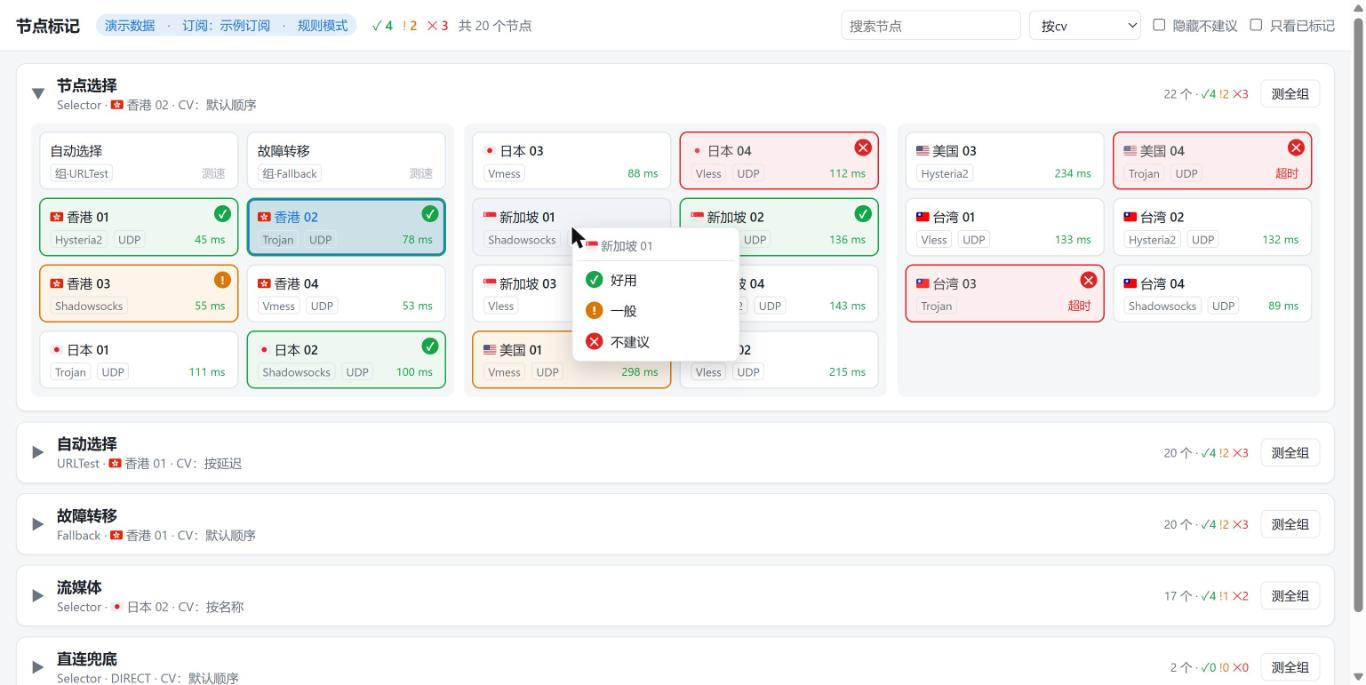
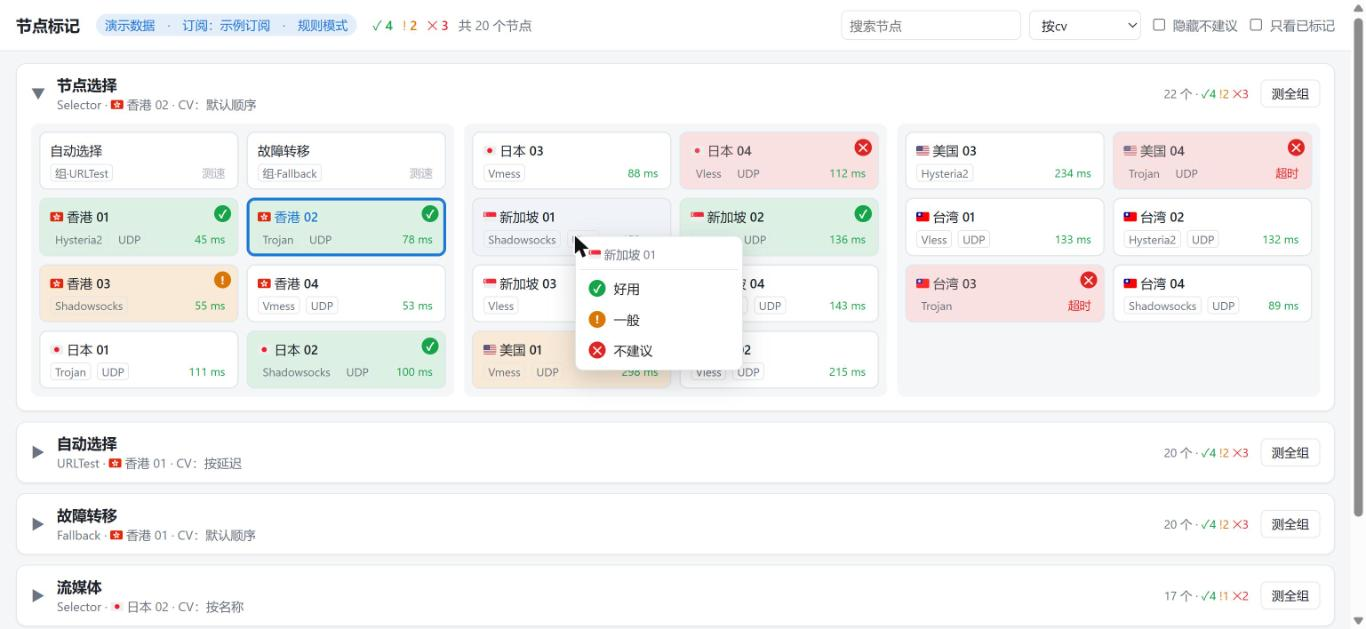
Show marks as tint + badge only; frame only the selected node
Selection and mark both drew on the card border, so a selected marked
card got two colored frames stacked together. Marks now use just the
background tint (made stronger) and the corner badge; the selected card
gets a 3px blue frame. Update READMEs and screenshot to match.

diff --git a/index.html b/index.html
@@ -16,9 +16,9 @@
     --bg: #f5f6f8; --panel: #ffffff; --card: #ffffff; --card-hover: #f0f3f8;
     --text: #1f2329; --muted: #6b7280; --line: #e3e6eb;
     --primary: #1976d2; --primary-bg: rgba(25, 118, 210, 0.12);
-    --good: #16a34a; --good-bg: rgba(22, 163, 74, 0.08);
-    --warn: #d97706; --warn-bg: rgba(217, 119, 6, 0.09);
-    --bad: #dc2626; --bad-bg: rgba(220, 38, 38, 0.08);
+    --good: #16a34a; --good-bg: rgba(22, 163, 74, 0.15);
+    --warn: #d97706; --warn-bg: rgba(217, 119, 6, 0.16);
+    --bad: #dc2626; --bad-bg: rgba(220, 38, 38, 0.14);
     --shadow: 0 1px 2px rgba(0, 0, 0, 0.06);
   }
   @media (prefers-color-scheme: dark) {
@@ -26,9 +26,9 @@
       --bg: #17181b; --panel: #1f2125; --card: #26292e; --card-hover: #2e3238;
       --text: #e6e8eb; --muted: #9aa1ab; --line: #34383f;
       --primary: #5aa9f5; --primary-bg: rgba(90, 169, 245, 0.16);
-      --good: #34c46a; --good-bg: rgba(52, 196, 106, 0.10);
-      --warn: #f0a530; --warn-bg: rgba(240, 165, 48, 0.11);
-      --bad: #f2615b; --bad-bg: rgba(242, 97, 91, 0.11);
+      --good: #34c46a; --good-bg: rgba(52, 196, 106, 0.18);
+      --warn: #f0a530; --warn-bg: rgba(240, 165, 48, 0.18);
+      --bad: #f2615b; --bad-bg: rgba(242, 97, 91, 0.18);
       --shadow: none;
     }
   }
@@ -86,7 +86,8 @@
     padding: 8px 10px 7px; cursor: pointer; min-height: 58px; transition: background .1s;
   }
   .card:hover { background: var(--card-hover); }
-  .card.sel { background: var(--primary-bg); border-color: var(--primary); }
+  /* 只有选中的卡片画彩色框：1.5px 边框再加 1.5px 内描边，共 3px，不改变卡片尺寸 */
+  .card.sel { background: var(--primary-bg); border-color: var(--primary); box-shadow: inset 0 0 0 1.5px var(--primary); }
   .card.sel .name { color: var(--primary); }
   .card.locked { cursor: default; }
   .name { font-size: 13px; font-weight: 500; word-break: break-all; padding-right: 18px;
@@ -100,12 +101,13 @@
   .delay.d-slow, .delay.d-timeout { color: var(--bad); }
   .delay.d-none { opacity: .55; }
 
-  /* 质量标记：边框 + 右上角徽标 + 底色 */
-  .card.m-good { border-color: var(--good); background-image: linear-gradient(var(--good-bg), var(--good-bg)); }
-  .card.m-warn { border-color: var(--warn); background-image: linear-gradient(var(--warn-bg), var(--warn-bg)); }
-  .card.m-bad  { border-color: var(--bad);  background-image: linear-gradient(var(--bad-bg), var(--bad-bg)); }
+  /* 质量标记：右上角徽标 + 底色（不画边框，边框只留给选中） */
+  .card.m-good { background-image: linear-gradient(var(--good-bg), var(--good-bg)); }
+  .card.m-warn { background-image: linear-gradient(var(--warn-bg), var(--warn-bg)); }
+  .card.m-bad  { background-image: linear-gradient(var(--bad-bg), var(--bad-bg)); }
   .card.m-bad .name { opacity: .8; }
-  .card.sel.m-good, .card.sel.m-warn, .card.sel.m-bad { box-shadow: inset 0 0 0 1.5px var(--primary); }
+  /* 已标记的卡片选中时只留标记底色，不再叠选中的蓝底 */
+  .card.sel.m-good, .card.sel.m-warn, .card.sel.m-bad { background-color: var(--card); }
   .badge {
     position: absolute; top: 6px; right: 6px; width: 17px; height: 17px; border-radius: 50%;
     color: #fff; font-size: 11px; font-weight: 700; display: grid; place-items: center; line-height: 1;

diff --git a/README.en.md b/README.en.md
@@ -15,7 +15,7 @@ It changes no Clash Verge settings and needs no patched build. It talks to the m
 ## Features
 
 - **Mirrored proxy groups**: same group order, selected node, node type and delay as Clash Verge, refreshed every 3 seconds.
-- **Right-click to mark**: good / so-so / avoid / clear. Marked cards get a colored border, a tinted background and a badge in the top-right corner. Each group header shows how many nodes carry each mark.
+- **Right-click to mark**: good / so-so / avoid / clear. Marked cards get a tinted background and a badge in the top-right corner (the colored frame is reserved for the currently selected node). Each group header shows how many nodes carry each mark.
 - **Left-click to switch**: works like clicking in Clash Verge, and Clash Verge follows the change.
 - **Delay tests**: click the delay at the bottom-right of a card to test one node, or 测全组 to test a whole group. The test URL and timeout come from your Clash Verge settings.
 - **Filter and sort**: search; sort by default order, CV order (按cv), delay, mark, mark then delay, or name; hide nodes marked avoid; show only marked nodes.

diff --git a/README.md b/README.md
@@ -13,7 +13,7 @@
 ## 功能
 
 - **镜像代理组**：分组顺序、当前选中的节点、节点类型、延迟都和 Clash Verge 一样，每 3 秒刷新一次。
-- **右键标记**：好用 / 一般 / 不建议 / 清除。标记后卡片显示对应颜色的边框、底色和右上角徽标，组标题旁显示每档数量。
+- **右键标记**：好用 / 一般 / 不建议 / 清除。标记后卡片显示对应颜色的底色和右上角徽标（彩色框只用来表示当前选中的节点），组标题旁显示每档数量。
 - **左键切换节点**：和在 Clash Verge 里点一样，Clash Verge 会同步变化。
 - **测延迟**：点卡片右下角测单个节点，点「测全组」测整组。测速地址和超时沿用 Clash Verge 的设置。
 - **筛选和排序**：搜索；按默认顺序 / cv / 延迟 / 标记 / 标记+延迟 / 名称排序；隐藏不建议的节点；只看已标记的节点。
